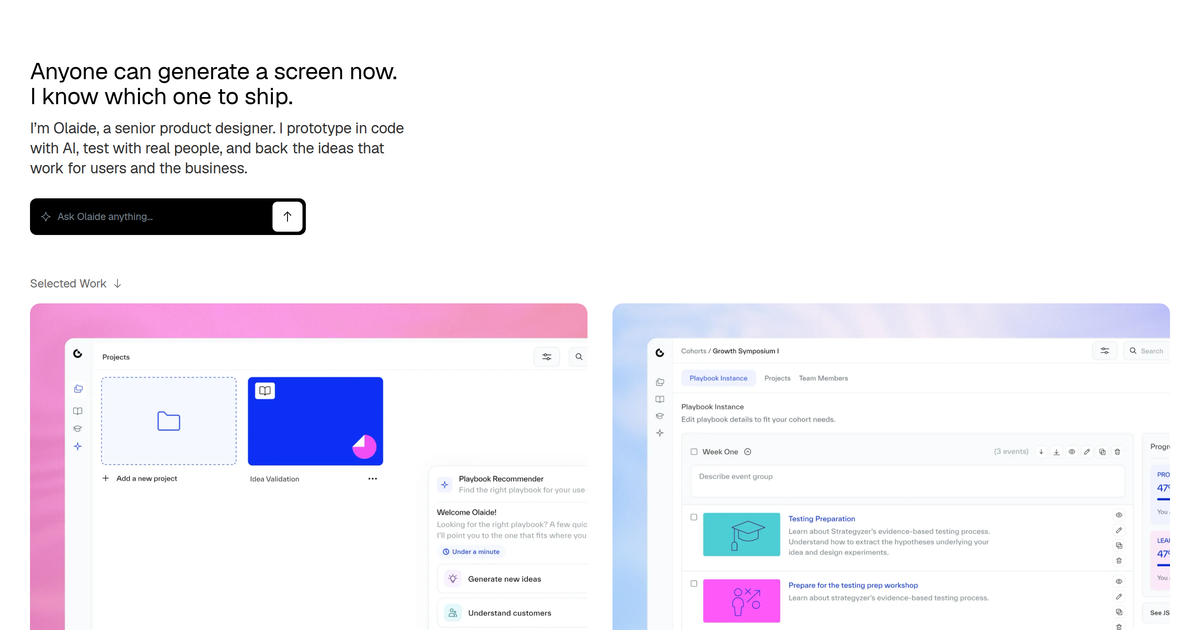
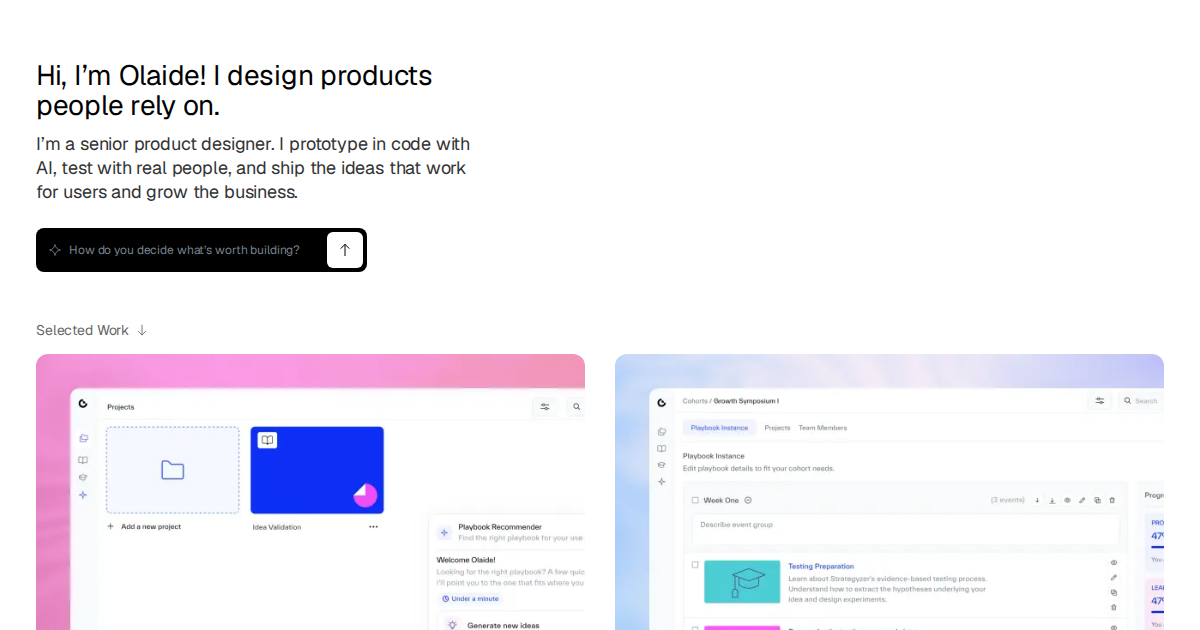
Link preview: new description and image for the new headline
Claude-Session: https://claude.ai/code/session_01Nab5DLJb7d55u8WkqBy9VY

diff --git a/app/layout.tsx b/app/layout.tsx
@@ -8,7 +8,7 @@ import "./globals.css";
 const SITE = "https://www.olaide.design";
 const TITLE = "Olaide, Senior Product Designer";
 const DESCRIPTION =
-  "I prototype in code with AI, test with real people, and back the ideas that work for users and the business.";
+  "I prototype in code with AI, test with real people, and ship the ideas that work for users and grow the business.";
 
 export const metadata: Metadata = {
   metadataBase: new URL(SITE),
